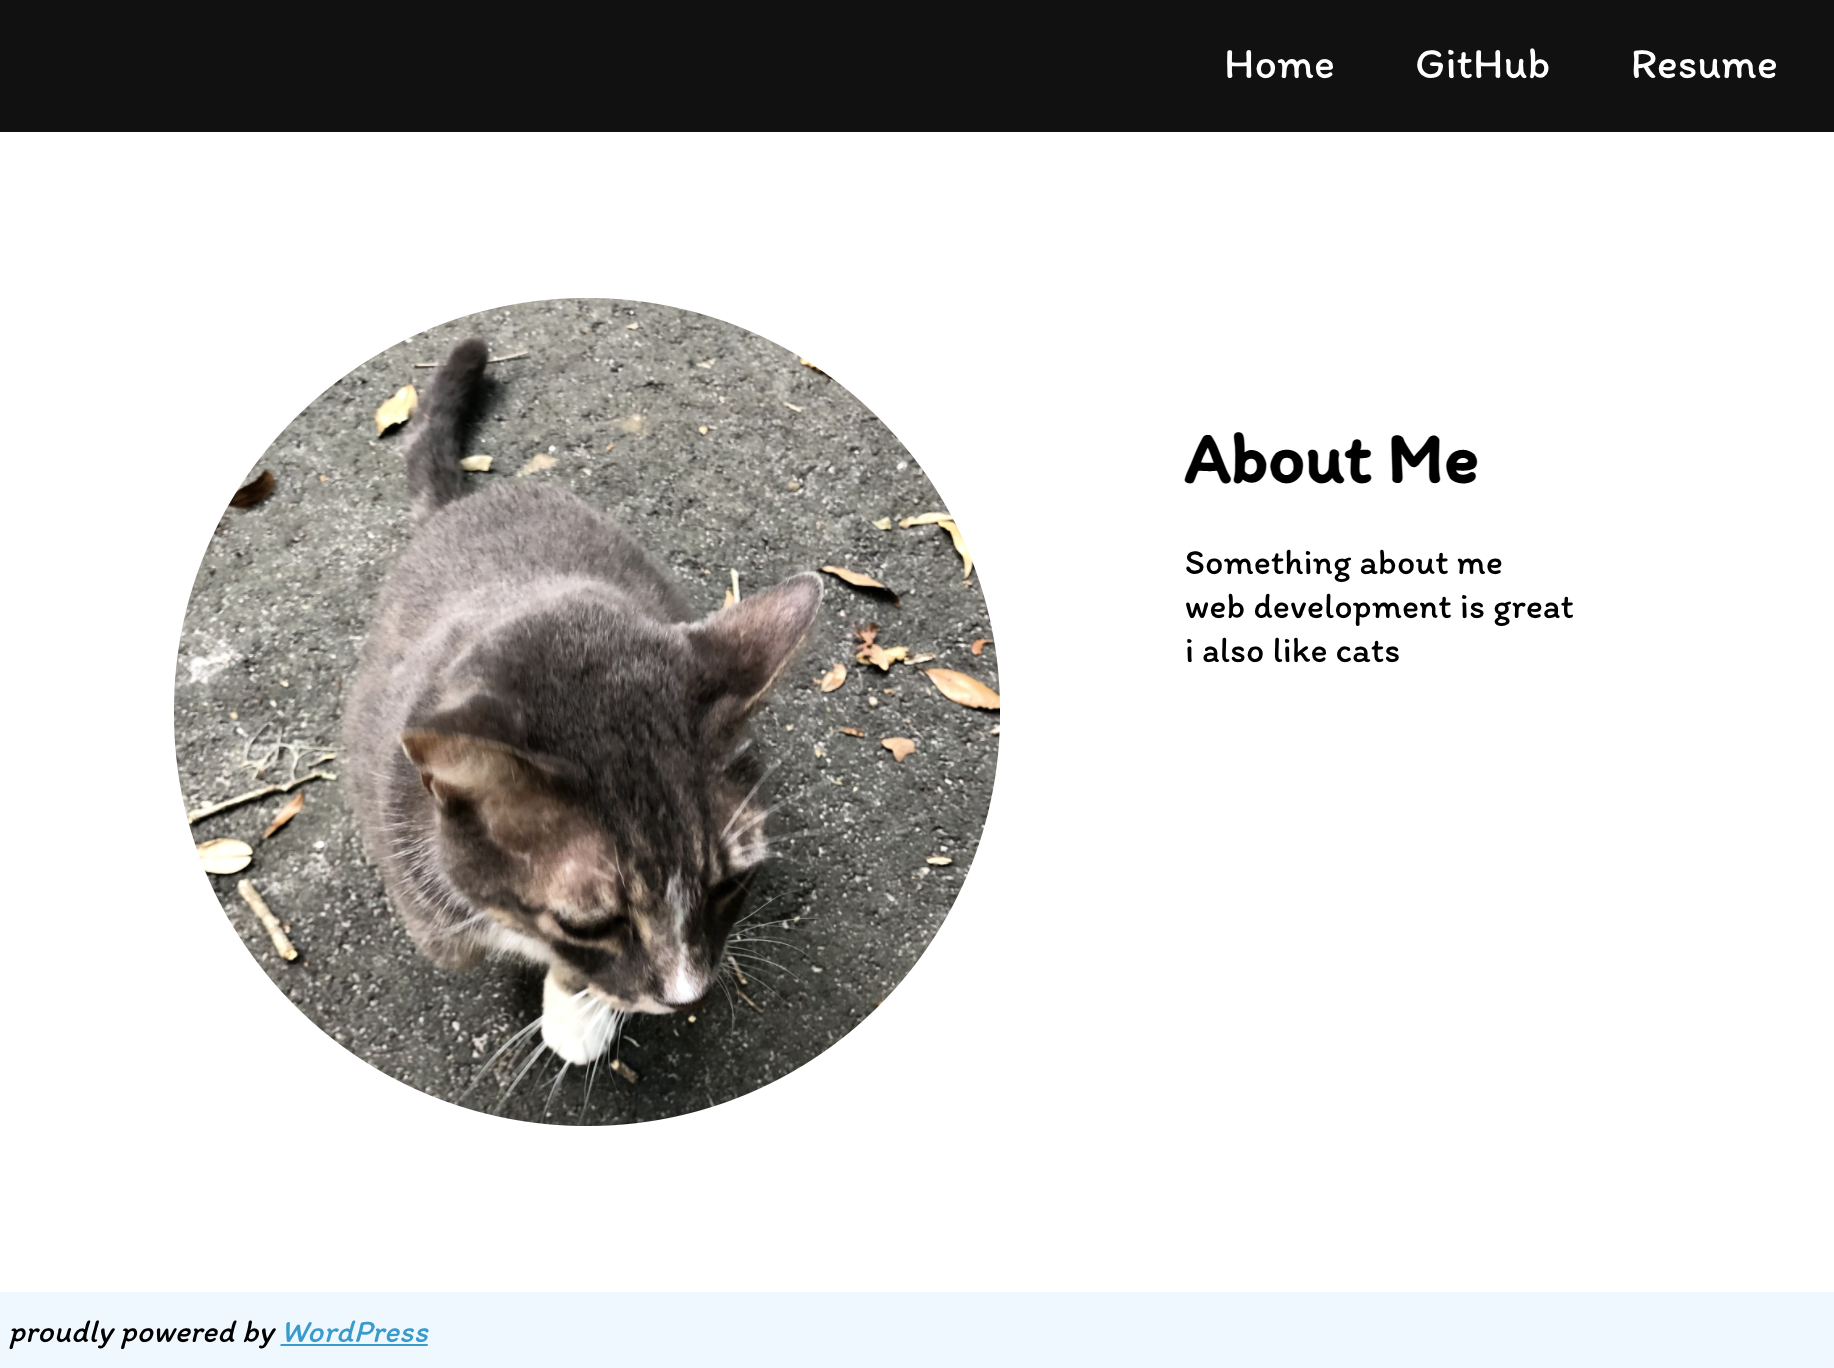
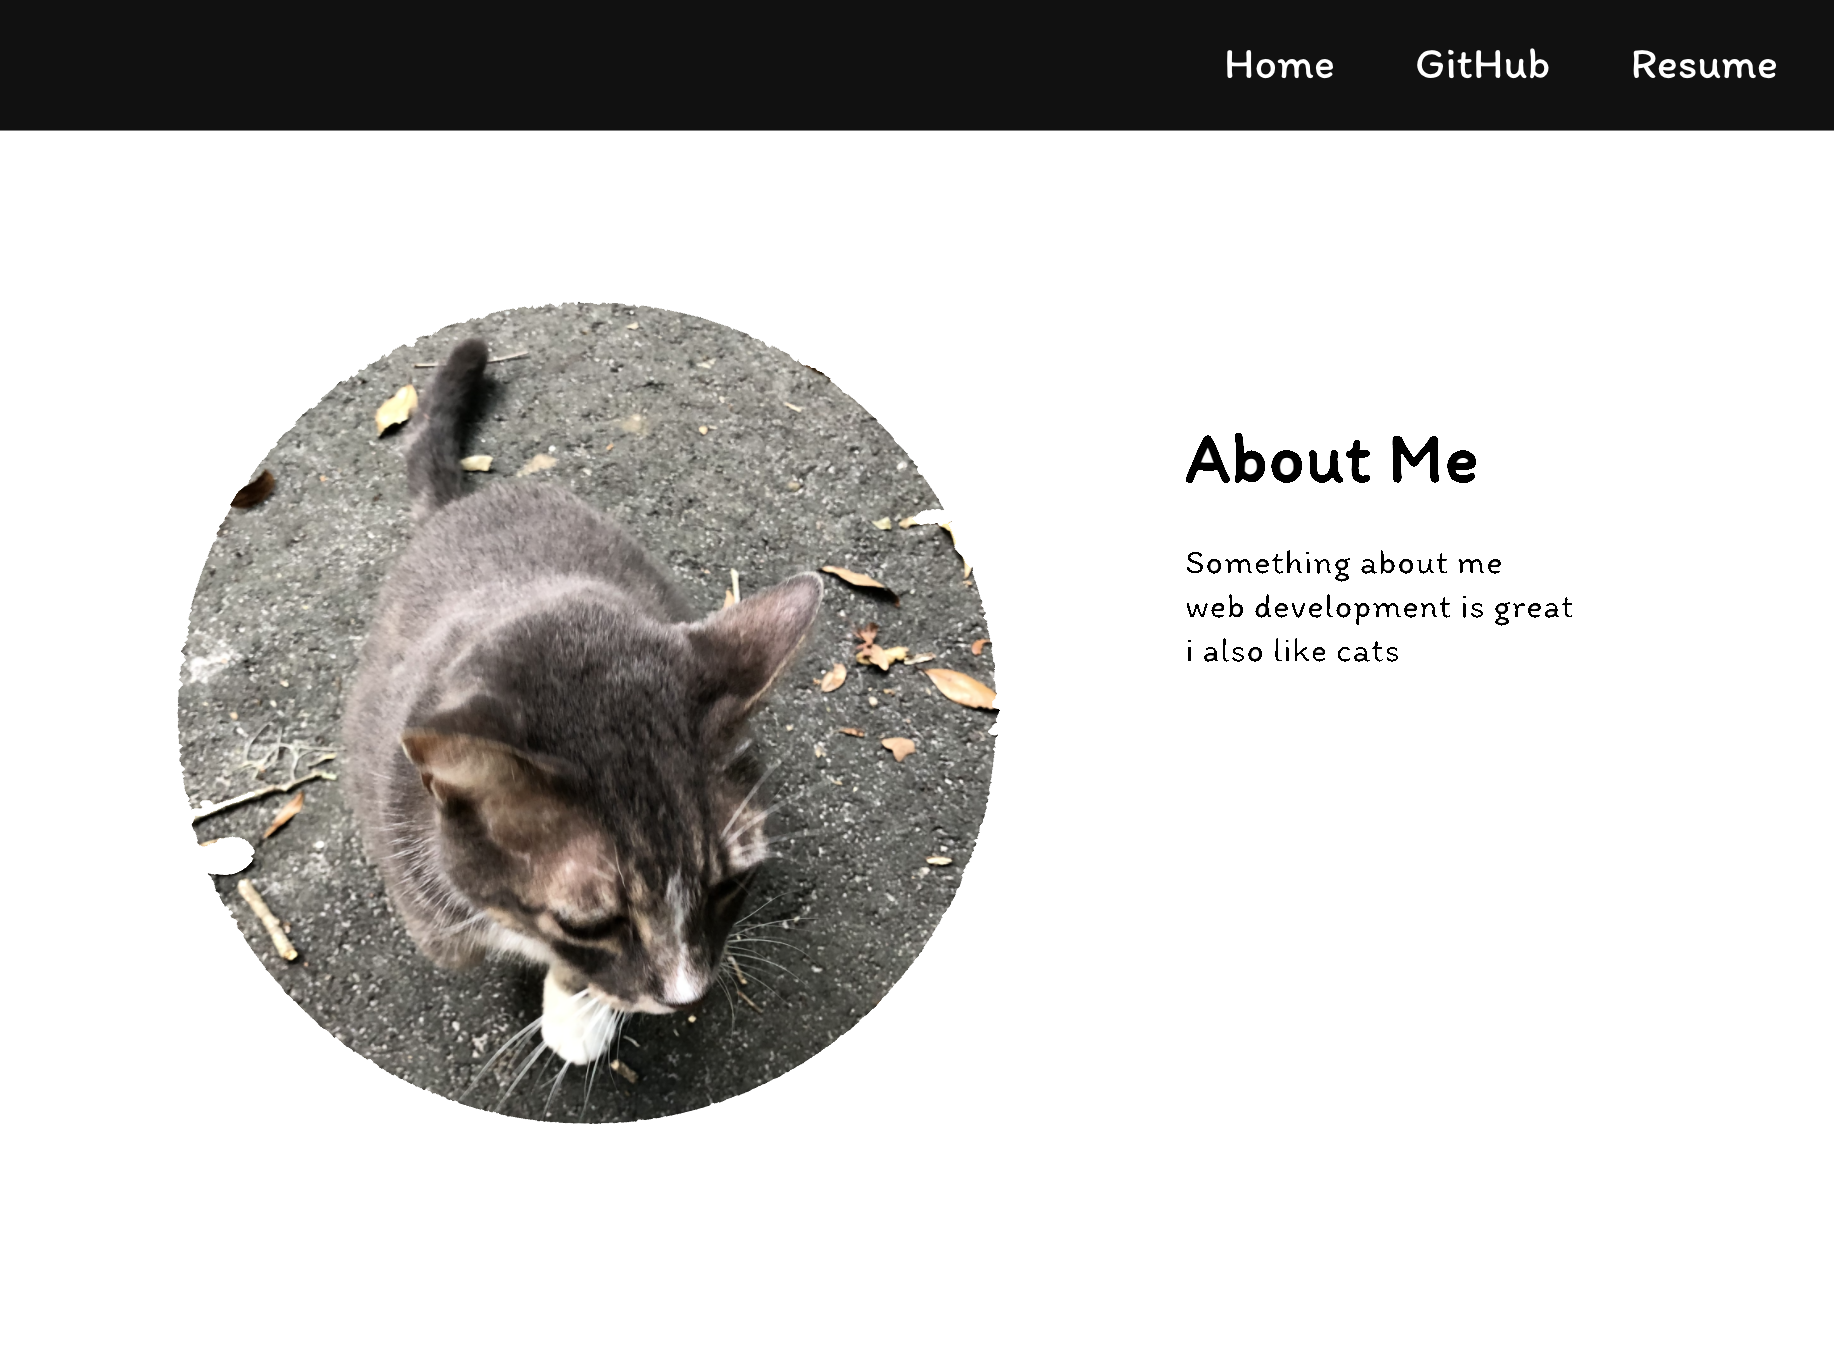
added posts and theme updates

diff --git a/style.css b/style.css
@@ -1,7 +1,7 @@
 /*
-Theme Name: Aspire
+Theme Name: Aspire (backup)
 Author: qqz
-Description: Simple theme for my portfolio
+Description: Simple portfolio
 Version: 1.0
 Text Domain: aspire       
 
@@ -38,17 +38,17 @@ body.admin-bar {
     min-height: 50px;
 }
 
-ul#menu-main-menu {
+ul.menu {
     list-style-type: none;
 }
-#menu-main-menu a {
+.menu a {
     color: white;
     text-decoration: none;
     font-size:22px;
     position: relative;
     padding-bottom: 5px;
 }
-#menu-main-menu a::before {
+.menu a::before {
     content: "";
     position: absolute;
     width: 100%;
@@ -60,7 +60,7 @@ ul#menu-main-menu {
     transform: scaleX(0);
     transition: all 0.3s ease-in-out 0s;
 }
-#menu-main-menu a:hover::before {
+.menu a:hover::before {
     visibility: visible;
     transform: scaleX(1);
 }
@@ -82,7 +82,7 @@ ul#menu-main-menu {
     font-size: 24px;
     z-index: 10;
 }
-ul#menu-main-menu.active {
+ul.menu.active {
     display: block;
 }
 .landing-bio img {
@@ -98,14 +98,55 @@ ul#menu-main-menu.active {
     font-size:36px;
     margin-bottom:20px;
 }
+#site-content.centered {
+    max-width: 1200px;
+    margin: 0 auto;
+    padding: 30px;
+}
+#site-content a {
+    color: black;
+    text-decoration: none;
+    border-bottom: 3px solid lightpink;
+}
+#site-content a:hover,
+#site-content a:focus,
+#site-content a:active {
+    background:lightpink;
+}
+
+#site-content h2 {
+    margin-bottom: 10px;
+}
+#site-content article {
+    margin-bottom:30px;
+}
+article {
+    font-family: 'Open Sans', Helvetica, sans-serif;
+}
+h1, h2, h3, h4, h5, h6 {
+    font-weight: 500;
+    font-family: 'Itim', Arial, Helvetica, sans-serif;
+}
+article.single h1 {
+    margin-bottom:30px;
+    border-bottom: 3px solid lightpink;
+    display:inline;
+}
+article.single p {
+    margin-top:20px;
+}
+.wp-block-image img {
+    max-width: 100%;
+    height: auto;
+}
 @media screen and (max-width: 767px) {
     
-    #menu-main-menu {
+    .menu {
         position:fixed;
         top: -1000px;
         transition: all 0.5s ease-out;
     }
-    #main-navigation.active #menu-main-menu {
+    #main-navigation.active .menu {
         top: 0px;
     }
     #main-navigation .fa-times {
@@ -117,7 +158,7 @@ ul#menu-main-menu.active {
     #main-navigation.active .fa-times {
         display: inline-block;
     }
-    #menu-main-menu li {
+    .menu li {
         padding: 20px;
         background: #111;
         width: 767px;
@@ -142,14 +183,14 @@ ul#menu-main-menu.active {
         flex-grow:1;
         height: 40px;
     }
-    ul#menu-main-menu {
+    ul.menu {
         display: flex;
         margin-right: 30px;
         flex-direction: row;
         justify-content: flex-end;
         background:#111;
     }
-    ul#menu-main-menu li {
+    ul.menu li {
         margin: 0;
         text-align: center;
     }
@@ -176,14 +217,15 @@ ul#menu-main-menu.active {
 }
 
 footer {
-    background:aliceblue;
     padding:10px;
 }
 #wordpress-blurb {
-    font-size:16px;
+    font-size:0.75rem;
     font-style: italic;
     bottom:0px;
     right:0px;
+    font-family: 'Open Sans', Helvetica, sans-serif;
+    color: dimgray;
 }
 #wordpress-blurb a {
     color:#39c; /* wordpress blue */

diff --git a/header.php b/header.php
@@ -2,12 +2,39 @@
     <head>
         <meta charset="utf-8">
         <meta name="viewport" content="width=device-width,initial-scale=1">
-        <title>QQZ Online Portfolio</title>
-        <meta name="description" content="Online portfolio of web developer Qianqian Zhao">
+        <title>
+            <?php 
+                if (is_front_page()) {
+                    echo get_bloginfo('name');
+                }
+                else {
+                    echo get_bloginfo('name');
+                    echo ' ';
+                    echo wp_title();
+                }
+            ?>
+        </title>
+        <meta name="description" content="<?php get_bloginfo('description'); ?>">
         <link rel="preconnect" href="https://fonts.gstatic.com">
         <link href="https://fonts.googleapis.com/css2?family=Itim&family=Open+Sans&display=swap" rel="stylesheet">  
         <link rel="stylesheet" href="<?php bloginfo( 'stylesheet_url' ); ?>" type="text/css" media="screen" />
         <script src="https://kit.fontawesome.com/c254a9fef3.js" crossorigin="anonymous"></script>
+        <style>
+            .menu a::before {
+                background-color: <?php echo get_theme_mod('hover_accent_color'); ?>;
+            }
+            #site-content a {
+                border-color: <?php echo get_theme_mod('hover_accent_color'); ?>;
+            }
+            #site-content a:hover,
+            #site-content a:focus,
+            #site-content a:active { 
+                background:<?php echo get_theme_mod('hover_accent_color'); ?>;
+            }
+            article.single h1 {
+                border-color: <?php echo get_theme_mod('hover_accent_color'); ?>;
+            }
+        </style>
     </head>
     <body <?php body_class(); ?>>
         <main>
@@ -24,7 +51,7 @@
                                 'theme_location'     => 'main',
                                 'walker'             => new aspire_nav_walker(),
                             )
-                            );
+                        );
                     endif;
                 ?>
             </nav>

diff --git a/classes/class-aspire-customize.php b/classes/class-aspire-customize.php
@@ -1,0 +1,61 @@
+<?php
+/**
+ * Customizer settings for this theme.
+ */
+
+if ( ! class_exists( 'Aspire_Customize' ) ) {
+
+    class Aspire_Customize {
+
+        public function __construct() {
+            add_action( 'customize_register', array( $this, 'register' ));
+        }
+
+        public function register( $wp_customize ) {
+
+            /**
+            * Hide default Customize elements that are irrelevant to theme
+            */
+
+            $wp_customize->get_section( 'colors' )->active_callback = '__return_false';
+            $wp_customize->get_section( 'header_image' )->active_callback = '__return_false';
+            $wp_customize->get_section( 'background_image' )->active_callback = '__return_false';
+            $wp_customize->remove_control('blogdescription');
+            $wp_customize->remove_panel('primary_menu');
+
+            /**
+            * Change underline hover color
+            */
+
+			$wp_customize->add_section(
+				'accent_color',
+				array(
+					'title'         => esc_html__( 'Accent Color', 'aspire' ),
+                    'description'   => __( 'Color on hover for navigation bar' ),
+					'capability'    => 'edit_theme_options',
+                    'priority'      => 30,
+				)
+			);
+
+            $wp_customize->add_setting(
+                'hover_accent_color',
+                array(
+                    'type'        => 'theme_mod',
+                )
+            );
+
+            $wp_customize->add_control(
+                'hover_accent_color',
+                array(
+                    'type'    => 'color',
+                    'section' => 'accent_color',
+                    'label'   => __( 'Hover Color', 'aspire' ),
+                    'priority' => 10,
+                )
+            );
+
+        }
+
+    }
+
+}

diff --git a/functions.php b/functions.php
@@ -1,4 +1,12 @@
 <?php
+
+    add_theme_support( 'title-tag' );
+    add_theme_support( 'post-thumbnails' );
+    add_theme_support( 'post-formats', ['aside', 'gallery', 'link', 'image', 'quote', 'status', 'video', 'audio', 'chat' ]);
+    add_theme_support( 'html5' );
+    add_theme_support( 'custom-header' );
+
+
     register_nav_menus( [
         'main' => 'Main',
     ] );
@@ -24,4 +32,8 @@
             Walker_Nav_Menu::display_element($element, $children_elements, $max_depth, $depth, $args, $output);
          }
     }
+
+    // Customizer additions.
+    require get_template_directory() . '/classes/class-aspire-customize.php';
+    new Aspire_Customize();
 ?>

diff --git a/footer.php b/footer.php
@@ -9,7 +9,7 @@
 
         </script>
         <footer>
-            <div id="wordpress-blurb">proudly powered by <a href="http://wordpress.org/">WordPress</a></div>
+            <div id="wordpress-blurb">proudly powered by <a href="http://wordpress.org/">WordPress</a>. Like this theme? Download it <a href="https://github.com/qqz/aspire">here</a>.</div>
         </footer>
         <?php wp_footer(); ?>
     </body>

diff --git a/home.php b/home.php
@@ -13,7 +13,6 @@
 					<header class="entry-header">
 						<?php 
                             the_title( sprintf( '<h2 class="entry-title default-max-width"><a href="%s">', esc_url( get_permalink() ) ), '</a></h2>' ); 
-                            the_date( '', '<div class="datetime">','</div>'); 
                             the_excerpt(); 
                         ?>
 					</header>

diff --git a/singular.php b/singular.php
@@ -1,0 +1,19 @@
+<?php get_header(); ?>
+
+<main id="site-content" class="centered" role="main"> 
+	<article class="single">
+		<div>
+		<?php
+			if ( have_posts() ) {
+				the_post();
+				the_title( '<h1 class="entry-title">', '</h1>' );
+				the_content();
+			} else {
+				echo "No text defined.";
+			}
+		?>
+		</div>
+	</article>
+</main>
+
+<?php get_footer(); ?>

diff --git a/front-page.php b/front-page.php
@@ -1,6 +1,6 @@
 <?php get_header(); ?>
 
-<main id="site-content" class="centered" role="main"> 
+<main id="site-content" role="main" class="centered"> 
     <?php
         if ( have_posts() ) {
             wp_reset_query();
